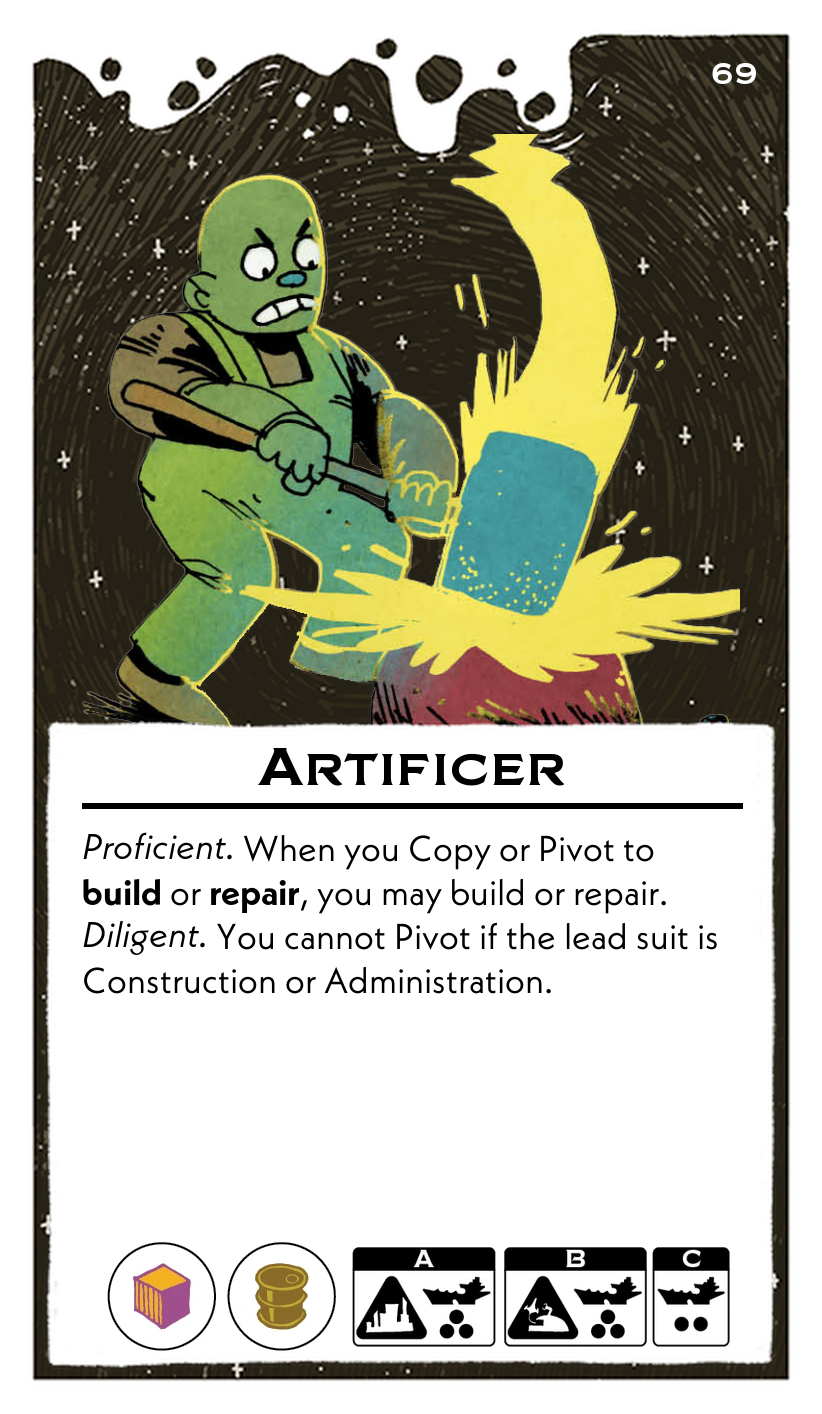
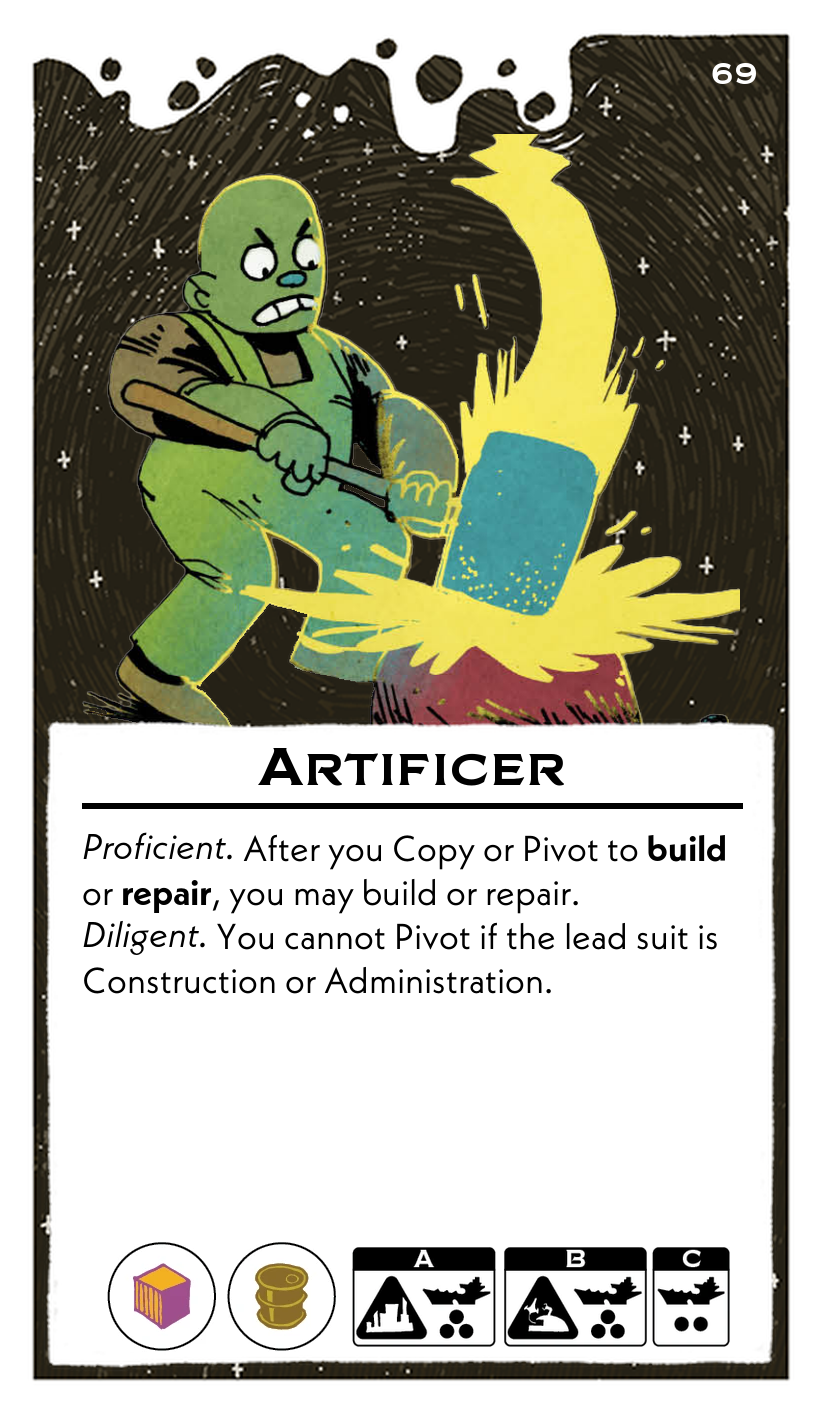
artificier

Changed region(s): [[0.0912, 0.5912, 0.882, 0.6535]]

diff --git a/scripts/leadersFormatted.py b/scripts/leadersFormatted.py
@@ -1055,7 +1055,7 @@ leaders = [
     {
         "name": "Artificer",
         "abilities": (
-            "*Proficient.* When you Copy or Pivot to **build** or **repair**, you may build or repair.\n"
+            "*Proficient.* After you Copy or Pivot to **build** or **repair**, you may build or repair.\n"
             "*Diligent.* You cannot Pivot if the lead suit is Construction or Administration."
         ),
         "resources": ["Material", "Fuel"],
